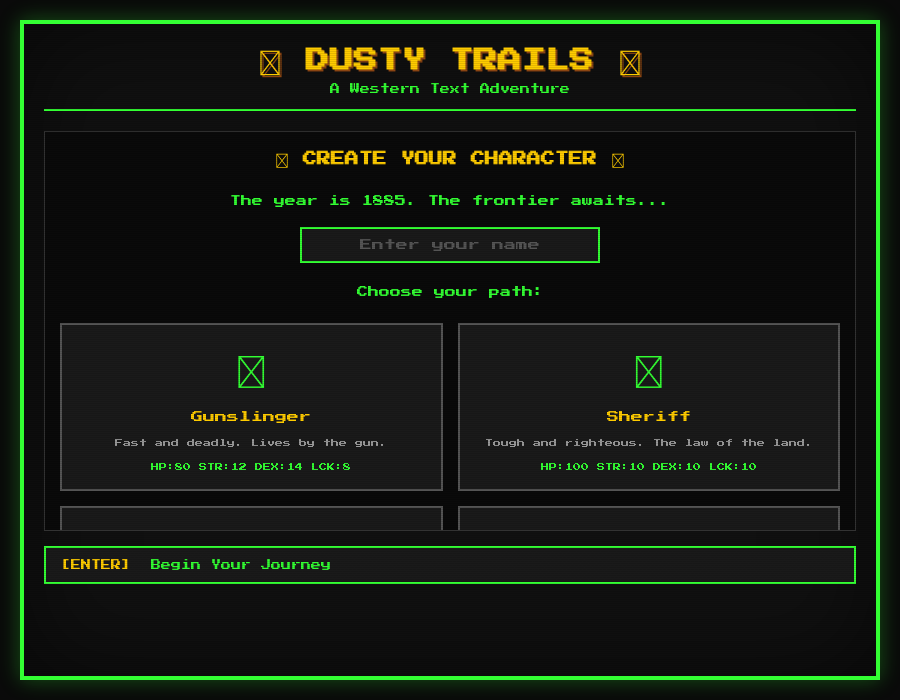
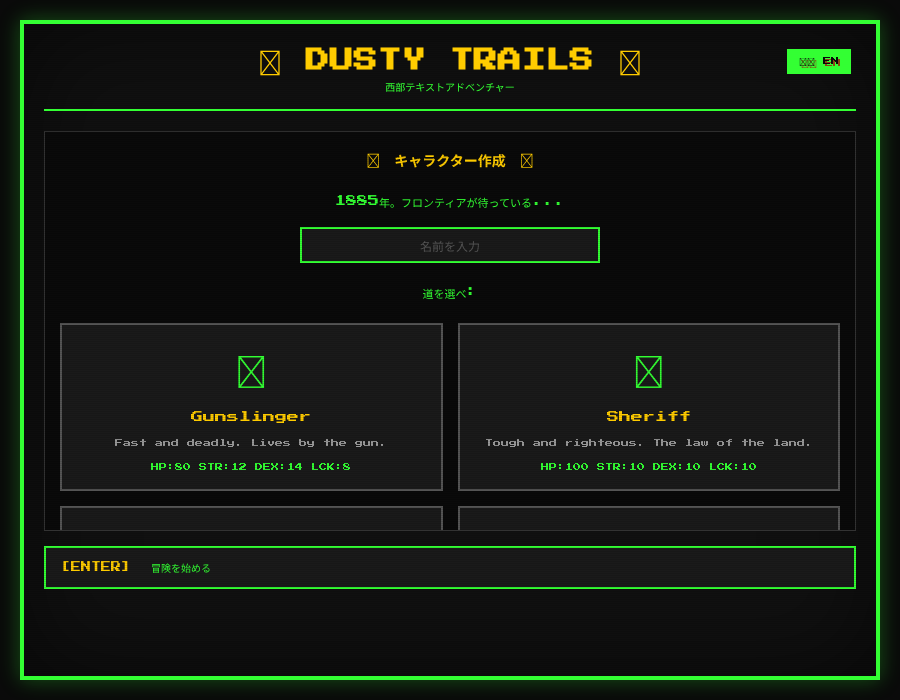
🇯🇵 Add Japanese language support to Dusty Trails (#009)
- Toggle button (🇯🇵 JP / 🇺🇸 EN) in header
- Japanese translations for:
  - Character creation screen
  - Intro scene and town navigation
  - Story text and dialogue
  - Ending sequence
- Class names and stats remain in English as requested
- Language preference saved to localStorage
- Dynamic text updates without page reload

diff --git a/009-trpg/index.html b/009-trpg/index.html
@@ -44,10 +44,27 @@
             border-bottom: 2px solid #33ff33;
             padding-bottom: 15px;
             margin-bottom: 20px;
+            position: relative;
         }
         header h1 {
             font-size: 24px;
             color: #ffcc00;
+        }
+        #lang-toggle {
+            position: absolute;
+            top: 5px;
+            right: 5px;
+            background: #1a1a1a;
+            border: 2px solid #33ff33;
+            color: #33ff33;
+            padding: 5px 10px;
+            font-family: 'Press Start 2P', cursive;
+            font-size: 8px;
+            cursor: pointer;
+        }
+        #lang-toggle:hover {
+            background: #33ff33;
+            color: #0a0a0a;
             text-shadow: 2px 2px #8B4513;
             margin-bottom: 5px;
         }
@@ -278,8 +295,9 @@
 <body>
     <div id="game-container">
         <header>
+            <button id="lang-toggle" onclick="toggleLang()">🇯🇵 JP</button>
             <h1>🌵 DUSTY TRAILS 🌵</h1>
-            <div class="subtitle">A Western Text Adventure</div>
+            <div class="subtitle" id="subtitle">A Western Text Adventure</div>
         </header>
         
         <div id="stats-bar">
@@ -397,6 +415,102 @@
             }
         }
         
+        // Language system
+        let lang = localStorage.getItem('dustyTrails_lang') || 'en';
+        
+        const TEXTS = {
+            en: {
+                subtitle: 'A Western Text Adventure',
+                createChar: '🌅 CREATE YOUR CHARACTER 🌅',
+                yearIs: 'The year is 1885. The frontier awaits...',
+                enterName: 'Enter your name',
+                choosePath: 'Choose your path:',
+                beginJourney: 'Begin Your Journey',
+                introText: (name, className) => `The stagecoach drops you at the edge of <span style="color:#ffcc00">DUSTY GULCH</span>, a town forgotten by civilization but not by trouble. You're ${name}, a ${className}. The wind carries whispers of gold, danger, and opportunity.`,
+                welcome: '"Welcome to Dusty Gulch, stranger. Watch your back."',
+                mainStreet: 'The dusty main street stretches before you. A saloon, general store, and sheriff\'s office line the road.',
+                saloon: 'Enter the Saloon',
+                store: 'Visit the General Store',
+                sheriff: 'Go to the Sheriff\'s Office',
+                wilderness: 'Head out of town',
+                saloonEnter: 'The saloon doors swing open. Piano music fills the smoky air. Cowboys eye you suspiciously.',
+                bartender: '"What\'ll it be, stranger?"',
+                buyDrink: 'Buy a drink ($5)',
+                playPoker: 'Play poker ($10)',
+                listenRumors: 'Listen to rumors',
+                leave: 'Leave',
+                victory: '🏆 Victory!',
+                defeated: 'You defeated the',
+                goldEarned: 'gold earned!',
+                returnTown: 'Return to town',
+                continueExplore: 'Continue exploring',
+                endingTitle: '🌅 THE END 🌅',
+                endingText: (name) => `The dust settles over the canyon. Black Pete lies defeated at your feet. Word of your victory spreads like wildfire across the frontier. When you return to Dusty Gulch, the townsfolk gather in the streets.`,
+                endingCheers: (name) => `"Three cheers for ${name}!" the crowd roars.`,
+                endingMayor: '"This town owes you everything. From this day forward, you are the true law of Dusty Gulch."',
+                legendWest: '🏆 YOU ARE NOW A LEGEND OF THE WEST! 🏆',
+                finalStats: 'Final Stats:',
+                remember: 'The frontier will remember your name forever...'
+            },
+            jp: {
+                subtitle: '西部テキストアドベンチャー',
+                createChar: '🌅 キャラクター作成 🌅',
+                yearIs: '1885年。フロンティアが待っている...',
+                enterName: '名前を入力',
+                choosePath: '道を選べ:',
+                beginJourney: '冒険を始める',
+                introText: (name, className) => `駅馬車が<span style="color:#ffcc00">DUSTY GULCH</span>の町はずれに到着した。文明に忘れ去られ、しかしトラブルには忘れられていない町だ。君は${name}、${className}だ。風は金、危険、そしてチャンスの噂を運んでくる。`,
+                welcome: '「ようこそDusty Gulchへ、よそ者さん。背中に気をつけな」',
+                mainStreet: '埃っぽいメインストリートが目の前に広がる。酒場、雑貨店、保安官事務所が道沿いに並んでいる。',
+                saloon: '🍺 酒場に入る',
+                store: '🏪 雑貨店に行く',
+                sheriff: '⭐ 保安官事務所に行く',
+                wilderness: '🌵 町を出る',
+                saloonEnter: '酒場の扉が開く。ピアノの音が煙たい空気に響く。カウボーイたちが怪しげな目で君を見る。',
+                bartender: '「何にする、よそ者さん？」',
+                buyDrink: '🥃 酒を買う ($5)',
+                playPoker: '🎰 ポーカーをする ($10)',
+                listenRumors: '👂 噂を聞く',
+                leave: '🚪 出る',
+                victory: '🏆 勝利！',
+                defeated: 'を倒した！',
+                goldEarned: 'ゴールド獲得！',
+                returnTown: '🏠 町に戻る',
+                continueExplore: '🏜 探索を続ける',
+                endingTitle: '🌅 終幕 🌅',
+                endingText: (name) => `峡谷に砂埃が舞い落ちる。Black Peteは君の足元に倒れている。君の勝利の知らせは、野火のようにフロンティア中に広がった。Dusty Gulchに戻ると、町の人々が通りに集まっていた。`,
+                endingCheers: (name) => `「${name}に乾杯！」群衆が叫ぶ。`,
+                endingMayor: '「この町は君に全てを借りがある。今日からあなたこそがDusty Gulchの真の法だ」',
+                legendWest: '🏆 君は西部の伝説となった！ 🏆',
+                finalStats: '最終ステータス:',
+                remember: 'フロンティアは君の名前を永遠に記憶するだろう...'
+            }
+        };
+        
+        function T(key, ...args) {
+            const text = TEXTS[lang][key];
+            return typeof text === 'function' ? text(...args) : text;
+        }
+        
+        function toggleLang() {
+            lang = lang === 'en' ? 'jp' : 'en';
+            localStorage.setItem('dustyTrails_lang', lang);
+            document.getElementById('lang-toggle').textContent = lang === 'en' ? '🇯🇵 JP' : '🇺🇸 EN';
+            document.getElementById('subtitle').textContent = T('subtitle');
+            // Refresh current scene if in game
+            if (currentScene && player) {
+                showScene(currentScene);
+            } else if (!player) {
+                showCharacterCreation();
+            }
+        }
+        
+        // Initialize language button
+        document.addEventListener('DOMContentLoaded', () => {
+            document.getElementById('lang-toggle').textContent = lang === 'en' ? '🇯🇵 JP' : '🇺🇸 EN';
+            document.getElementById('subtitle').textContent = T('subtitle');
+        });
+        
         // Game state
         let player = null;
         let currentScene = null;
@@ -496,10 +610,10 @@
         function showCharacterCreation() {
             storyArea.innerHTML = `
                 <div id="char-create">
-                    <h2>🌅 CREATE YOUR CHARACTER 🌅</h2>
-                    <p class="narrator">The year is 1885. The frontier awaits...</p>
-                    <input type="text" id="char-name" placeholder="Enter your name" maxlength="12">
-                    <p class="narrator">Choose your path:</p>
+                    <h2>${T('createChar')}</h2>
+                    <p class="narrator">${T('yearIs')}</p>
+                    <input type="text" id="char-name" placeholder="${T('enterName')}" maxlength="12">
+                    <p class="narrator">${T('choosePath')}</p>
                     <div class="class-select">
                         ${Object.entries(CLASSES).map(([key, c]) => `
                             <div class="class-card" data-class="${key}">
@@ -527,7 +641,7 @@
             setTimeout(() => {
                 choicesArea.innerHTML = `
                     <button class="choice-btn" onclick="createCharacter()">
-                        <span class="key">[ENTER]</span> Begin Your Journey
+                        <span class="key">[ENTER]</span> ${T('beginJourney')}
                     </button>
                 `;
             }, 500);
@@ -608,29 +722,28 @@
         const SCENES = {
             intro: {
                 text: () => `
-                    <p class="narrator">The stagecoach drops you at the edge of <span style="color:#ffcc00">DUSTY GULCH</span>, a town forgotten by civilization but not by trouble.</p>
-                    <p class="narrator">You're ${player.name}, a ${player.classData.name}. The wind carries whispers of gold, danger, and opportunity.</p>
-                    <p class="dialogue">"Welcome to Dusty Gulch, stranger. Watch your back."</p>
-                    <p class="narrator">The dusty main street stretches before you. A saloon, general store, and sheriff's office line the road.</p>
+                    <p class="narrator">${T('introText', player.name, player.classData.name)}</p>
+                    <p class="dialogue">${T('welcome')}</p>
+                    <p class="narrator">${T('mainStreet')}</p>
                 `,
-                choices: [
-                    { text: '🍺 Enter the Saloon', action: 'saloon' },
-                    { text: '🏪 Visit the General Store', action: 'store' },
-                    { text: '⭐ Go to the Sheriff\'s Office', action: 'sheriff' },
-                    { text: '🌵 Head out of town', action: 'wilderness' }
+                choices: () => [
+                    { text: T('saloon'), action: 'saloon' },
+                    { text: T('store'), action: 'store' },
+                    { text: T('sheriff'), action: 'sheriff' },
+                    { text: T('wilderness'), action: 'wilderness' }
                 ]
             },
             saloon: {
                 text: () => `
-                    <p class="narrator">The saloon doors swing open. Piano music fills the smoky air. Cowboys eye you suspiciously.</p>
-                    <p class="narrator">The bartender polishes a glass. <span class="dialogue">"What'll it be, stranger?"</span></p>
-                    ${Math.random() < 0.3 ? `<p class="system">A rough-looking man in the corner stares at you menacingly...</p>` : ''}
+                    <p class="narrator">${T('saloonEnter')}</p>
+                    <p class="narrator"><span class="dialogue">${T('bartender')}</span></p>
+                    ${Math.random() < 0.3 ? `<p class="system">${lang === 'jp' ? '隅にいる荒くれ者が君を睨んでいる...' : 'A rough-looking man in the corner stares at you menacingly...'}</p>` : ''}
                 `,
                 choices: () => {
                     const choices = [
-                        { text: '🥃 Buy a drink ($5)', action: 'buy_drink', disabled: player.gold < 5 },
-                        { text: '🎰 Play poker ($10)', action: 'poker', disabled: player.gold < 10 },
-                        { text: '👂 Listen to rumors', action: 'rumors' },
+                        { text: T('buyDrink'), action: 'buy_drink', disabled: player.gold < 5 },
+                        { text: T('playPoker'), action: 'poker', disabled: player.gold < 10 },
+                        { text: T('listenRumors'), action: 'rumors' },
                         { text: '🚪 Leave', action: 'intro' }
                     ];
                     if (Math.random() < 0.3) {
@@ -918,24 +1031,21 @@
             },
             ending: {
                 text: () => `
-                    <p class="narrator">🌅 THE END 🌅</p>
-                    <p class="narrator">The dust settles over the canyon. Black Pete lies defeated at your feet.</p>
-                    <p class="dialogue">"You... you're faster than anyone I've ever seen,"</p> he gasps.
-                    <p class="narrator">Word of your victory spreads like wildfire across the frontier.</p>
-                    <p class="narrator">When you return to Dusty Gulch, the townsfolk gather in the streets.</p>
-                    <p class="dialogue">"Three cheers for ${player.name}!"</p> the crowd roars.
-                    <p class="narrator">The mayor steps forward with a golden sheriff's star.</p>
-                    <p class="dialogue">"This town owes you everything. From this day forward, you are the true law of Dusty Gulch."</p>
-                    <p class="loot">🏆 YOU ARE NOW A LEGEND OF THE WEST! 🏆</p>
-                    <p class="system">Final Stats:</p>
+                    <p class="narrator">${T('endingTitle')}</p>
+                    <p class="narrator">${T('endingText', player.name)}</p>
+                    <p class="dialogue">${lang === 'jp' ? '「お前は...今まで見た中で一番速い」' : '"You... you\'re faster than anyone I\'ve ever seen,"'}</p>
+                    <p class="dialogue">${T('endingCheers', player.name)}</p>
+                    <p class="dialogue">${T('endingMayor')}</p>
+                    <p class="loot">${T('legendWest')}</p>
+                    <p class="system">${T('finalStats')}</p>
                     <p class="system">💰 Gold: ${player.gold}</p>
-                    <p class="system">💀 Enemies Defeated: ${player.kills}</p>
-                    <p class="system">⭐ Reputation: ${player.reputation}</p>
-                    <p class="narrator">The frontier will remember your name forever...</p>
+                    <p class="system">💀 ${lang === 'jp' ? '倒した敵' : 'Enemies Defeated'}: ${player.kills}</p>
+                    <p class="system">⭐ ${lang === 'jp' ? '評判' : 'Reputation'}: ${player.reputation}</p>
+                    <p class="narrator">${T('remember')}</p>
                     <p class="narrator">${player.name} the ${player.classData.name}</p>
                 `,
                 choices: [
-                    { text: '🔄 Play Again', action: 'restart' }
+                    { text: lang === 'jp' ? '🔄 もう一度プレイ' : '🔄 Play Again', action: 'restart' }
                 ]
             },
             restart: {
